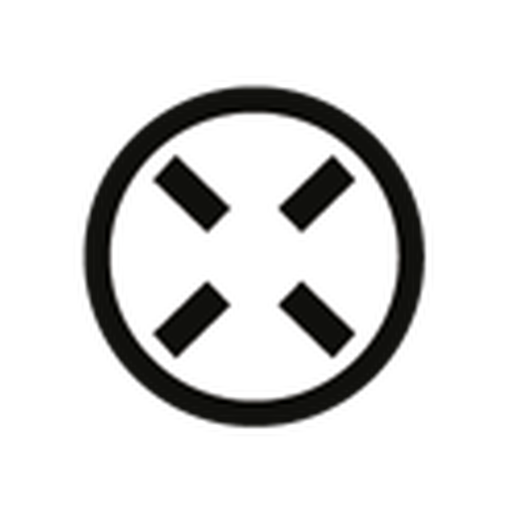
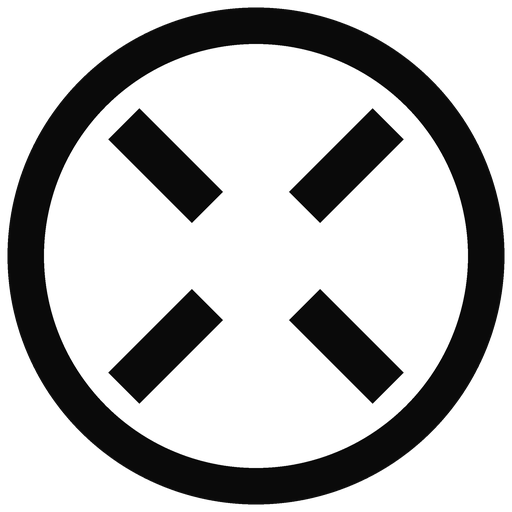
[V.0.72.015] feat(desktop): 앱 아이콘이 칸에 꽉 차도록 다시 그림 (원이 캔버스의 약 98%)
- icon.png(512) / icon.ico(16~256) 교체, 원본 비율은 유지
- 버전 V.0.72.015, CHANGELOG

diff --git a/backend/app/version.py b/backend/app/version.py
@@ -6,7 +6,7 @@
 """
 import re
 
-APP_VERSION = "0.72.14"
+APP_VERSION = "0.72.15"
 
 _PATTERN = re.compile(r"^\s*[vV]?\.?(\d+)\.(\d{1,2})\.(\d{1,3})\s*$")
 

diff --git a/CLAUDE.md b/CLAUDE.md
@@ -29,7 +29,7 @@
 - 묻는 방법: 현재 버전(`backend/app/version.py` 의 `APP_VERSION` 을 `V.주.부.빌드` 로 바꾼 값)을 첫 번째 선택지(권장)로 제안하고, 올릴 버전 / 직접 입력도 고를 수 있게 한다. 사용자가 "이번 작업은 V.x.xx.xxx"라고 이미 정해 준 같은 작업 흐름에서는 그 번호를 쓰되 어떤 번호를 썼는지 알린다.
 - 사용자가 새 버전으로 올리기로 하면 `cd desktop && npx tsx scripts/bump-version.ts V.0.70.151` 로 앱·화면·서버의 버전을 한 번에 올리고(세 곳이 어긋나면 `backend/tests/test_version.py` 가 실패한다), 루트 `CHANGELOG.md` 맨 위에 그 버전 항목을 적은 뒤 커밋한다.
 - 버전 표기는 `V.주.부(2자리).빌드(3자리)` (예: V.0.70.150). npm 이 `005` 처럼 0 으로 시작하는 숫자를 인정하지 않아 내부 파일(package.json, version.py)에는 숫자 앞의 0 을 뗀 값(`0.70.150`, 예: V.0.71.005 ↔ 0.71.5)을 두며, 두 표기는 항상 같은 값이다. 올리는 기준과 배포 절차는 `docs/version-policy.md` 참고.
-- 현재 버전: **V.0.72.014**
+- 현재 버전: **V.0.72.015**
 
 ---
 

diff --git a/CHANGELOG.md b/CHANGELOG.md
@@ -2,6 +2,12 @@
 
 버전 표기와 올리는 규칙은 [`docs/version-policy.md`](docs/version-policy.md). 새 버전은 맨 위에 추가한다.
 
+## V.0.72.015 — 2026-10-20
+
+### 데스크톱 앱 아이콘을 칸에 꽉 차게 (앱 재빌드 필요, 서버·DB 변경 없음)
+- 기존 아이콘은 원이 캔버스의 약 66%만 차지해 여백이 많았다. 원본 비율(링 두께·막대 길이)은 그대로 두고 **원이 캔버스의 약 98%를 채우도록** 다시 그렸다(`desktop/assets/icon.png` 512px, `icon.ico` 16~256px). 트레이 아이콘은 이미 거의 꽉 차 있어 그대로 둔다.
+- **이미 설치된 앱의 아이콘은 설치 파일을 다시 만들 때 바뀐다**(`cd desktop && npm run dist`).
+
 ## V.0.72.014 — 2026-10-20
 
 ### 상단 막대: 탭 스크롤바 제거, 출퇴근 토글 → 내 상태 콤보박스, 출근 기록 규칙 (서버 화면 + 백엔드 1개 파일, DB 변경 없음)
